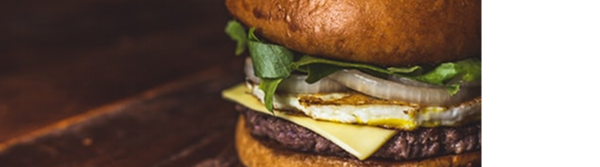
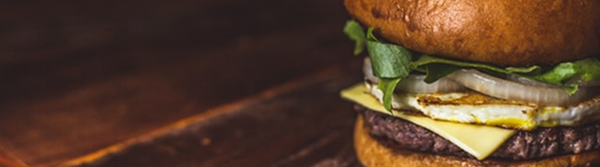
homepapge rendering completed

diff --git a/index.html b/index.html
@@ -1,5 +1,9 @@
-<html>
+<!doctype html>
+<html lang="en">
     <head>
+        <meta charset="UTF-8" />
+        <meta name="viewport" content="width=device-width, initial-scale=1.0" />
+        <title>Document</title>
         <link rel="stylesheet" href="index.css" />
         <!--Smythe Font-->
         <style>
@@ -15,27 +19,27 @@
                 </div>
             </div>
         </div>
-        <div class="container">
-            <div class="item">
+        <div class="item-container" id="item-container">
+            <!--<div class="item">
                 <div class="item-img">
-                    <img src="img/item-graphic.png" alt="an image of burger " />
+                    <img src="img/item-graphic.png" />
                 </div>
                 <div class="item-detail">
                     <div class="item-title">
                         <h2>Pizza</h2>
                     </div>
                     <div class="item-ingredients">
-                        <p>pepperoni, mushroom, mozarella</p>
+                        <p>pepporoni, cheeze</p>
                     </div>
                     <div class="item-price">
-                        <p>$12</p>
+                        <p>$14</p>
                     </div>
                 </div>
-                <div class="add-item">
+                <div class="add-item-btn">
                     <button><img src="img/plus.svg" alt="plus-icon" /></button>
                 </div>
-            </div>
+            </div>-->
         </div>
-        <script src="index.js"></script>
+        <script src="index.js" type="module"></script>
     </body>
 </html>

diff --git a/index.css b/index.css
@@ -9,23 +9,22 @@ body {
     font-family: "Smythe", system-ui;
 }
 
-.container {
+.container,
+.item-container {
     width: 600px;
     margin: 0 auto;
-    background-color: lightcoral;
 }
 
 .header {
     color: white;
-    width: 100% 100%;
+    width: 100%;
     height: 168px;
     display: flex;
     flex-direction: column;
     justify-content: center;
-    background-image: url("./img/header.png");
-    background-size: 100% 100%;
-    background-position: center;
-    background-repeat: no-repeat;
+    background-image: url("img/header.png");
+    background-size: cover;
+    margin-bottom: 30px;
 }
 
 .title,
@@ -40,4 +39,57 @@ body {
 
 .tag-line {
     font-size: 22px;
+}
+
+.item-container {
+    display: flex;
+    flex-direction: column;
+}
+
+.item {
+    display: flex;
+    justify-content: center;
+    gap: 25px;
+    margin: auto 30px 30px 30px;
+    padding-bottom: 30px;
+    border-bottom: 1px solid #d2d2d2;
+}
+
+.item-img {
+    font-size: 70px;
+    display: flex;
+    justify-content: center;
+    align-items: center;
+}
+
+.item-detail {
+    line-height: 30px;
+}
+
+.item-title {
+    font-weight: 400;
+}
+
+.item-ingredients {
+    color: #8b8b8b;
+}
+
+.item-price {
+    font-size: 20px;
+    font-weight: bold;
+}
+
+.add-item-btn {
+    margin-left: auto;
+    margin-top: auto;
+    margin-bottom: auto;
+}
+
+button {
+    background-color: #fff;
+    border-radius: 50%;
+    width: 40px;
+    height: 40px;
+    border: 1px solid #d2d2d2;
+    cursor: pointer;
 }

diff --git a/data.js b/data.js
@@ -1,23 +1,23 @@
-const menuArray = [
-    {
-        name: "Pizza",
-        ingredients: ["pepperoni", "mushrom", "mozarella"],
-        id: 0,
-        price: 14,
-        emoji: "🍕"
-    },
-    { 
-        name: "Hamburger",
-        ingredients: ["beef", "cheese", "lettuce"],
-        price: 12,
-        emoji: "🍔",
-        id: 1
-    },
-        {
-        name: "Beer",
-        ingredients: ["grain, hops, yeast, water"],
-        price: 12,
-        emoji: "🍺",
-        id: 2
-    }
-]
+export const menuArray = [
+  {
+    name: "Pizza",
+    ingredients: ["pepperoni", "mushrom", "mozarella"],
+    id: 0,
+    price: 14,
+    emoji: "🍕",
+  },
+  {
+    name: "Hamburger",
+    ingredients: ["beef", "cheese", "lettuce"],
+    price: 12,
+    emoji: "🍔",
+    id: 1,
+  },
+  {
+    name: "Beer",
+    ingredients: ["grain, hops, yeast, water"],
+    price: 12,
+    emoji: "🍺",
+    id: 2,
+  },
+];

diff --git a/index.js b/index.js
@@ -1,0 +1,33 @@
+import { menuArray } from "./data.js";
+
+const itemContainer = document.getElementById("item-container");
+
+console.log("menuArray:", menuArray);
+
+function render(items) {
+  let feedHTML = "";
+  menuArray.forEach((item) => {
+    feedHTML += ` <div class="item">
+        <div class="item-img">
+            ${item.emoji}
+        </div>
+        <div class="item-detail">
+            <div class="item-title">
+                <h2>${item.name}</h2>
+            </div>
+            <div class="item-ingredients">
+                <p>${item.ingredients.join(", ")}</p>
+            </div>
+            <div class="item-price">
+                <p>$${item.price}</p>
+            </div>
+        </div>
+        <div class="add-item-btn">
+            <button><img src="img/plus.svg" alt="plus-icon" /></button>
+        </div>
+    </div>`;
+  });
+  itemContainer.innerHTML = feedHTML;
+}
+
+render(menuArray);
